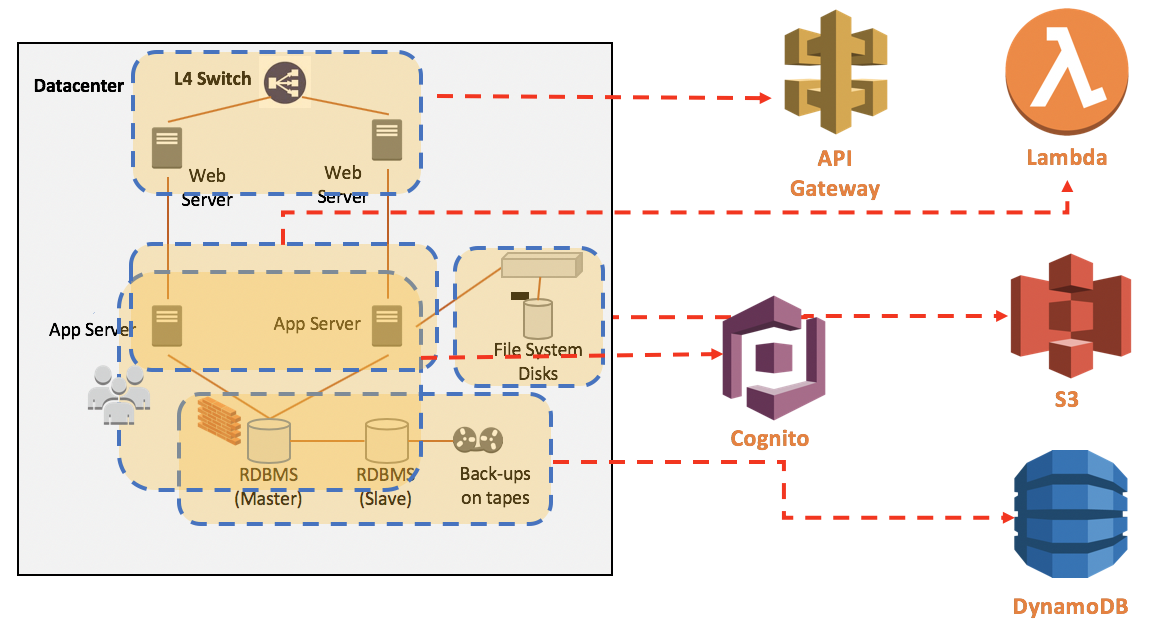
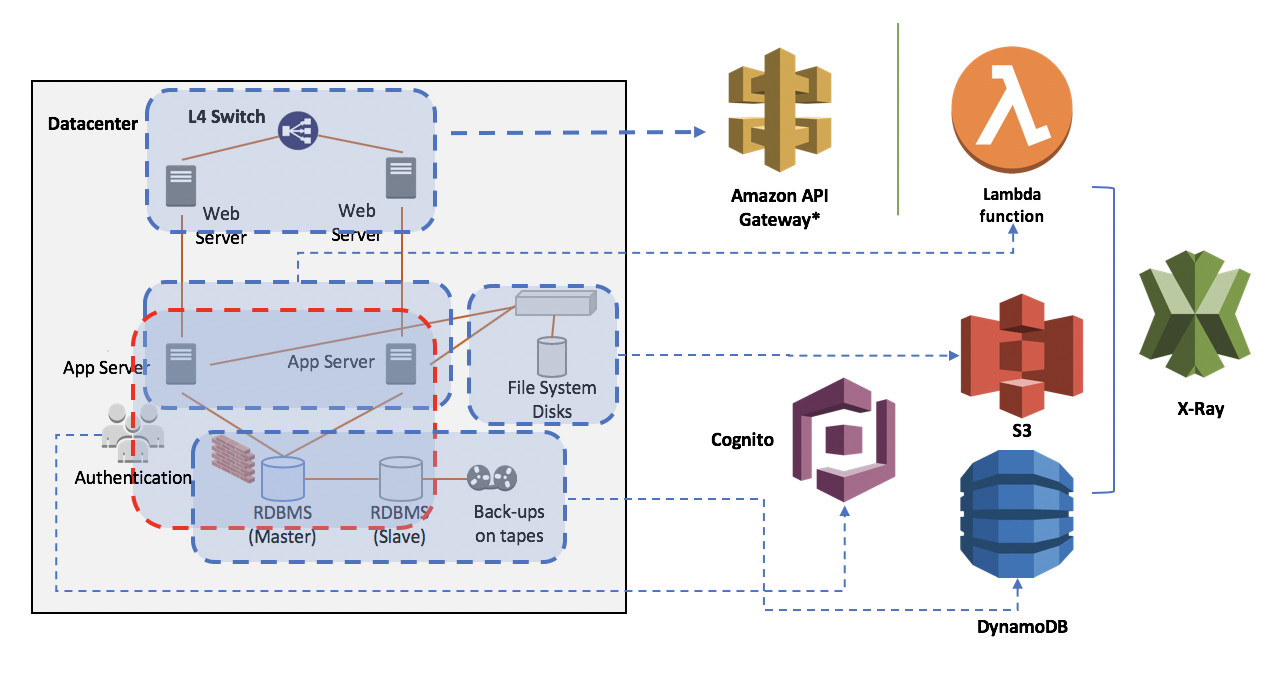
Resize image ration and fix errata in images

diff --git a/lab-guide/LAB02.md b/lab-guide/LAB02.md
@@ -206,7 +206,7 @@ In this TASK, we will introduce DynamoDB for CloudAlbum application. We also int
 
 
 * Leagacy application uses RDBMS(MySQL), we will replace it to DynamoDB. DynamoDB is fully managed service.It means that automatically scales throughput up or down, and continuously backs up your data for protection.
-<img src=./images/lab02-task1-ddb.png width=500>
+<img src=./images/lab02-task1-ddb.png width=600>
 
 * Legacy application uses **SQLAlchemy** for OR-Mapping. SQLAlchemy is the Python SQL toolkit and Object Relational Mapper that gives application developers the full power and flexibility of SQL.
   * visit : https://www.sqlalchemy.org/
@@ -215,7 +215,7 @@ In this TASK, we will introduce DynamoDB for CloudAlbum application. We also int
   * visit : https://github.com/pynamodb/PynamoDB
 
 * Legacy application has simple data model and we can design DynamoDB table easily.
-  <img src=./images/lab02-task1-modeling.png width=500>
+  <img src=./images/lab02-task1-modeling.png width=600>
 
 1. Install required Python packaged:
 ```console
@@ -524,7 +524,7 @@ Is it OK? Let's move to the next TASK.
 * File system will be changed from **local disk** to **Amazon S3**.
 * So, if you don't delete your album article which submitted this task, then **you will see your album article without images** when you run the application on the next TASK,
 
-<img src=images/lab02-task2-delete.png width=500>
+<img src=images/lab02-task2-delete.png width=400>
 
 
 ## TASK 2. Go to S3
@@ -532,7 +532,7 @@ CloudAlbum stored user uploaded images into disk based storage. (EBS or NAS). Ho
 
 [Amazon S3](https://aws.amazon.com/s3/) has a simple web services interface that you can use to store and retrieve any amount of data, at any time, from anywhere on the web. It gives any developer access to the same highly scalable, reliable, fast, inexpensive data storage infrastructure that Amazon uses to run its own global network of web sites. The service aims to maximize benefits of scale and to pass those benefits on to developers.
 
-<img src=./images/lab02-task2-arc.png width=500>
+<img src=./images/lab02-task2-arc.png width=600>
 
 * We will use Boto3 - S3 API to handle uploaded photo image object from the user.
    * visit: https://boto3.readthedocs.io/en/latest/reference/services/s3.html
@@ -664,7 +664,7 @@ Is it OK? Let's move to the next TASK.
 ## TASK 3. Go to Cognito
 In this TASK, you will add a sign-up/sign-in component to CloudAlbum application by using Amazon Cognito. After setting up Amazon Cognito, user information will retrieved from the Amazon Cognito.
 
-<img src=./images/lab02-task3-cognito-arc.png width=500>
+<img src=./images/lab02-task3-cognito-arc.png width=600>
 
 To begin, follow the steps below.
 
@@ -683,7 +683,7 @@ To begin, follow the steps below.
 30. Click **Step through settings**.
 
 31. For **How do you want your end users to sign in?**, select **Email address or phone number**.
-<img src=./images/lab02-task3-cognito-setup.png width=900>
+<img src=./images/lab02-task3-cognito-setup.png width=800>
 
 32. For **Which standard attributes do you want to require?**, select **name**.
 
@@ -750,6 +750,7 @@ https://<CLOUD9_RESOURCE_ID>.vfs.cloud9.ap-southeast-1.amazonaws.com
 51. In the left navigation menu, under **App integration**, click **Domain name**.
 
 52. Type a **domain name**(for example: `cloudalbum-<INITIAL>`, check its availability, and click **Save changes**. Write down the domain name for later use.
+ * **NOTE:** Domain name You have to use **lowercase**.
 <img src="images/lab03-task2-cognito-domain.png" width="500">
 
 53. In the left navigation menu, under **General settings**, click **App clients**.
@@ -878,6 +879,7 @@ Is it OK? Let's move to the next TASK.
 
 AWS [X-Ray](https://aws.amazon.com/xray/) helps developers analyze and debug production, distributed applications, such as those built using a microservices architecture. With X-Ray, you can understand how your application and its underlying services are performing to identify and troubleshoot the root cause of performance issues and errors. X-Ray provides an end-to-end view of requests as they travel through your application, and shows a map of your application’s underlying components. You can use X-Ray to analyze both applications in development and in production, from simple three-tier applications to complex microservices applications consisting of thousands of services.
 
+<img src="./images/lab02-task4-x-ray-arc.png" width="600">
 
 64. Install required Python packages for AWS X-Ray.
 ```console

diff --git a/lab-guide/LAB01.md b/lab-guide/LAB01.md
@@ -309,12 +309,12 @@ Check the application.
 * Deploy legacy application:
    * Configure EC2, RDS, and ELB.
       * DB_URL of MySQL for SQLAlchemy : 'mysql+pymysql://<user>:<password>@<host>:<port>/cloudalbum?charset=utf8'
-        <img src=./images/lab01-06.png width=700>    
+        <img src=./images/lab01-06.png width=500>    
 
 
 * Deploy legacy application:
    * Configure ElasticBeanstalk
-   <img src=./images/lab01-07.png width=700>
+   <img src=./images/lab01-07.png width=500>
 
 
 * Find problems:
